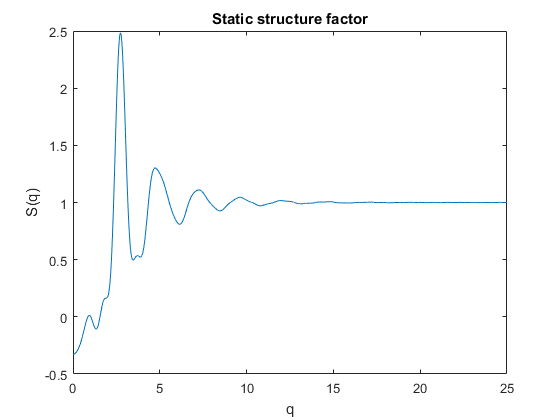
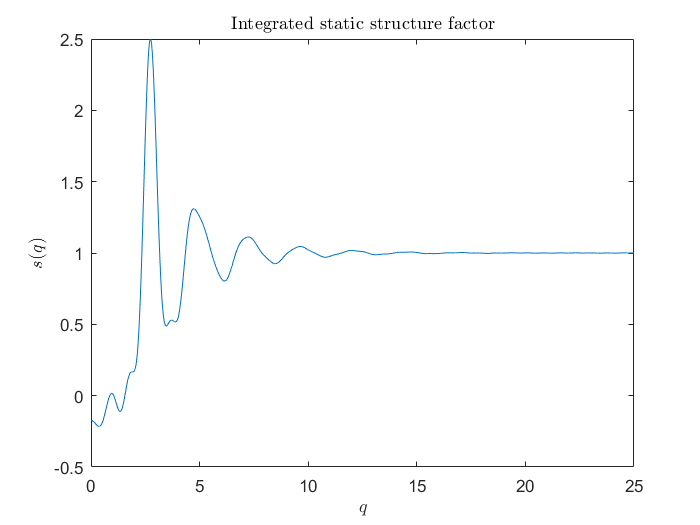
Updated task 8

diff --git a/code/Task8/MD_main.c b/code/Task8/MD_main.c
@@ -305,13 +305,12 @@ int main()
                 sum1+= cos(expo);
                 sum2+= sin(expo);
             }
-            sum1=sum1*sum1;
-            sum2=sum2*sum2;
+            sum1=abs(sum1*sum1);
+            sum2=abs(sum2*sum2);
 
             s(i,0)+=sum1;
             s(i,1)+=sum2;
         }
-        s(i,0)/=1;
         s(i,0)/=nbr_of_particles;
         s(i,1)/=nbr_of_particles;
         s(i,2) = len_sq;
@@ -321,7 +320,7 @@ int main()
 
     file = fopen("sq.dat","w");
     for (int i = 0; i < nk; i ++) {
-        fprintf(file, "%e \t %e \n", s(i,0), s(i,1));
+        fprintf(file, "%e \t %e \t %e \n", s(i,0), s(i,1),s(i,2));
     }
     fclose(file);
 
@@ -329,7 +328,7 @@ int main()
 
     double min =0;
     int k_bins = 100;
-    int* bins = malloc(k_bins*sizeof(int));
+    double* bins = malloc(k_bins*sizeof(double));
     double d_r = min + (max-min)/k_bins;
     for (int i = 1; i < nbr_of_timesteps; i++)
     {
@@ -337,7 +336,8 @@ int main()
         int bin = get_bin(dist,min,max,d_r);
         if (bin < k_bins)
         {
-            bins[bin]++;
+            //bins[bin]++;
+            bins[bin]+= s(i,1)+s(i,0);
         }
     }
 

diff --git a/code/Task8/plot_integral.m b/code/Task8/plot_integral.m
@@ -9,26 +9,24 @@ g=data(:,3)./data(:,4)/10000/n;
 
 %plot(data(:,1),g)
 
+% about half the cell length
 nDats=125;
-
 
 rad=data(1:nDats,1);
 
 integr=@(q)sum(rad.^2.*(g(1:nDats)-1).*sin(q*rad)./(rad*q));
-%)/((data(nDats,1)-data(1,1))*nDats);
 
 s=@(q)1+4*pi*1/n*integr(q);
 
-
-c=linspace(0,25,5000);
+q=linspace(0,25,5000);
 
 for i=1:5000
-    b(i)=s(c(i));
+    val(i)=s(q(i));
 end
-plot(c,b)
+plot(q,val)
 
-xlim([c(1), c(end)])
+xlim([q(1), q(end)])
 
-title('Static structure factor')
-xlabel('q')
-ylabel('S(q)')
+title('Integrated static structure factor','interpreter','latex')
+xlabel('$q$','interpreter','latex')
+ylabel('$s(q)$','interpreter','latex')

diff --git a/code/Task8/plot_simulation.m b/code/Task8/plot_simulation.m
@@ -12,6 +12,6 @@ startx = 1;
 plot(data(startx:end,1),data(startx:end,2),'-')
 
 
-title('Simulated Static structure factor')
-xlabel('q')
-ylabel('S(q)')
+title('Simulated Static structure factor','interpreter','latex')
+xlabel('q','interpreter','latex')
+ylabel('S(q)','interpreter','latex')
